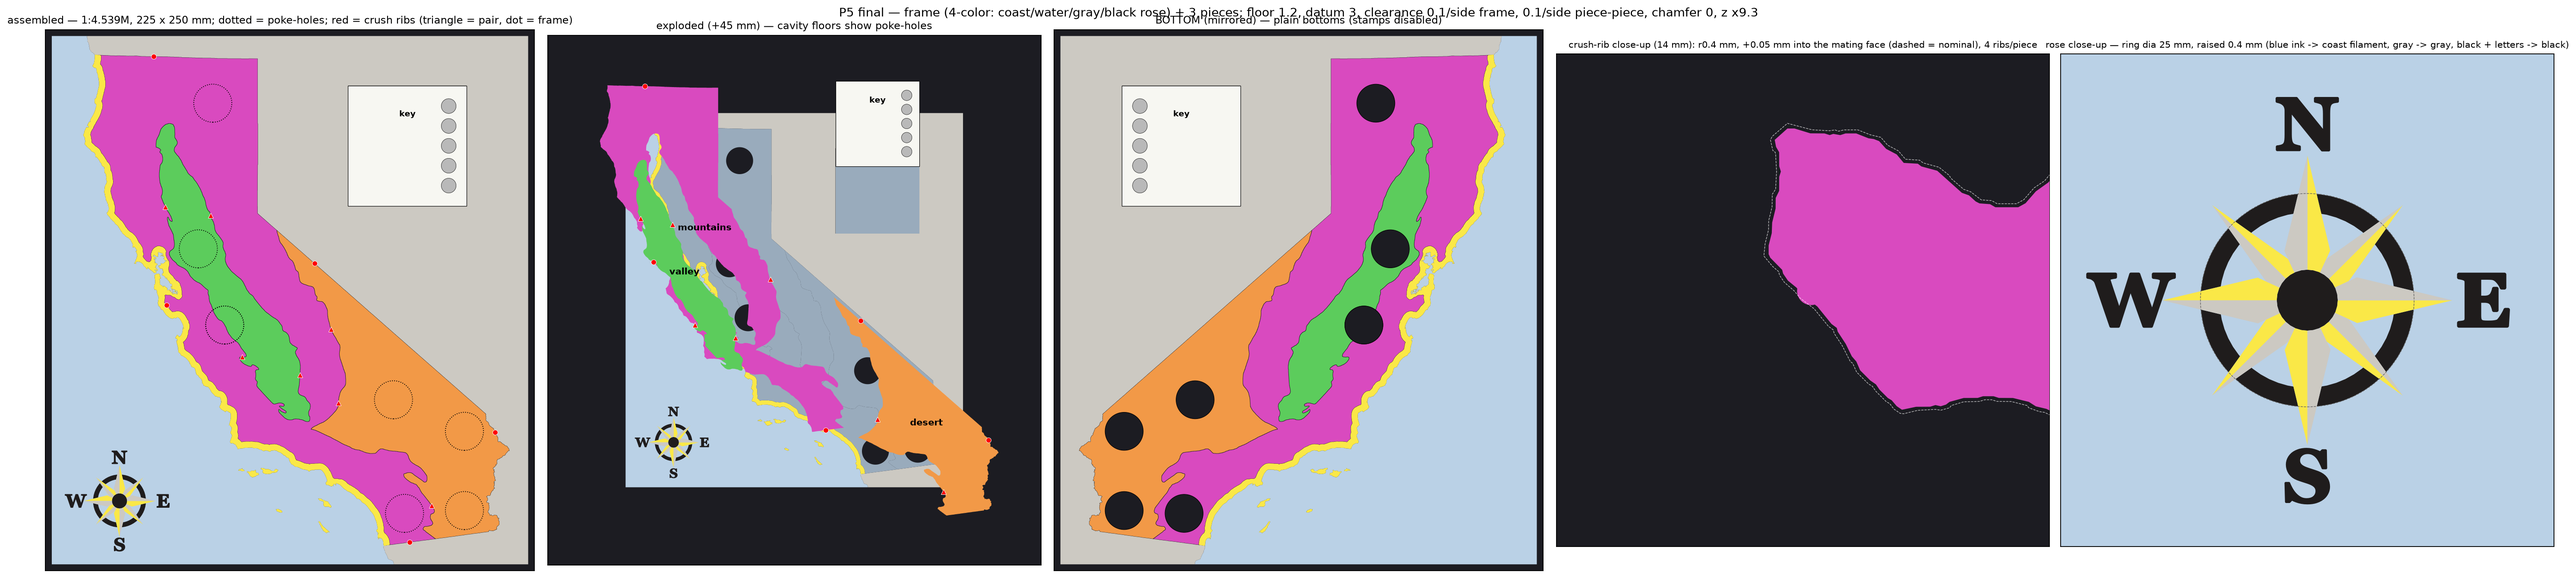
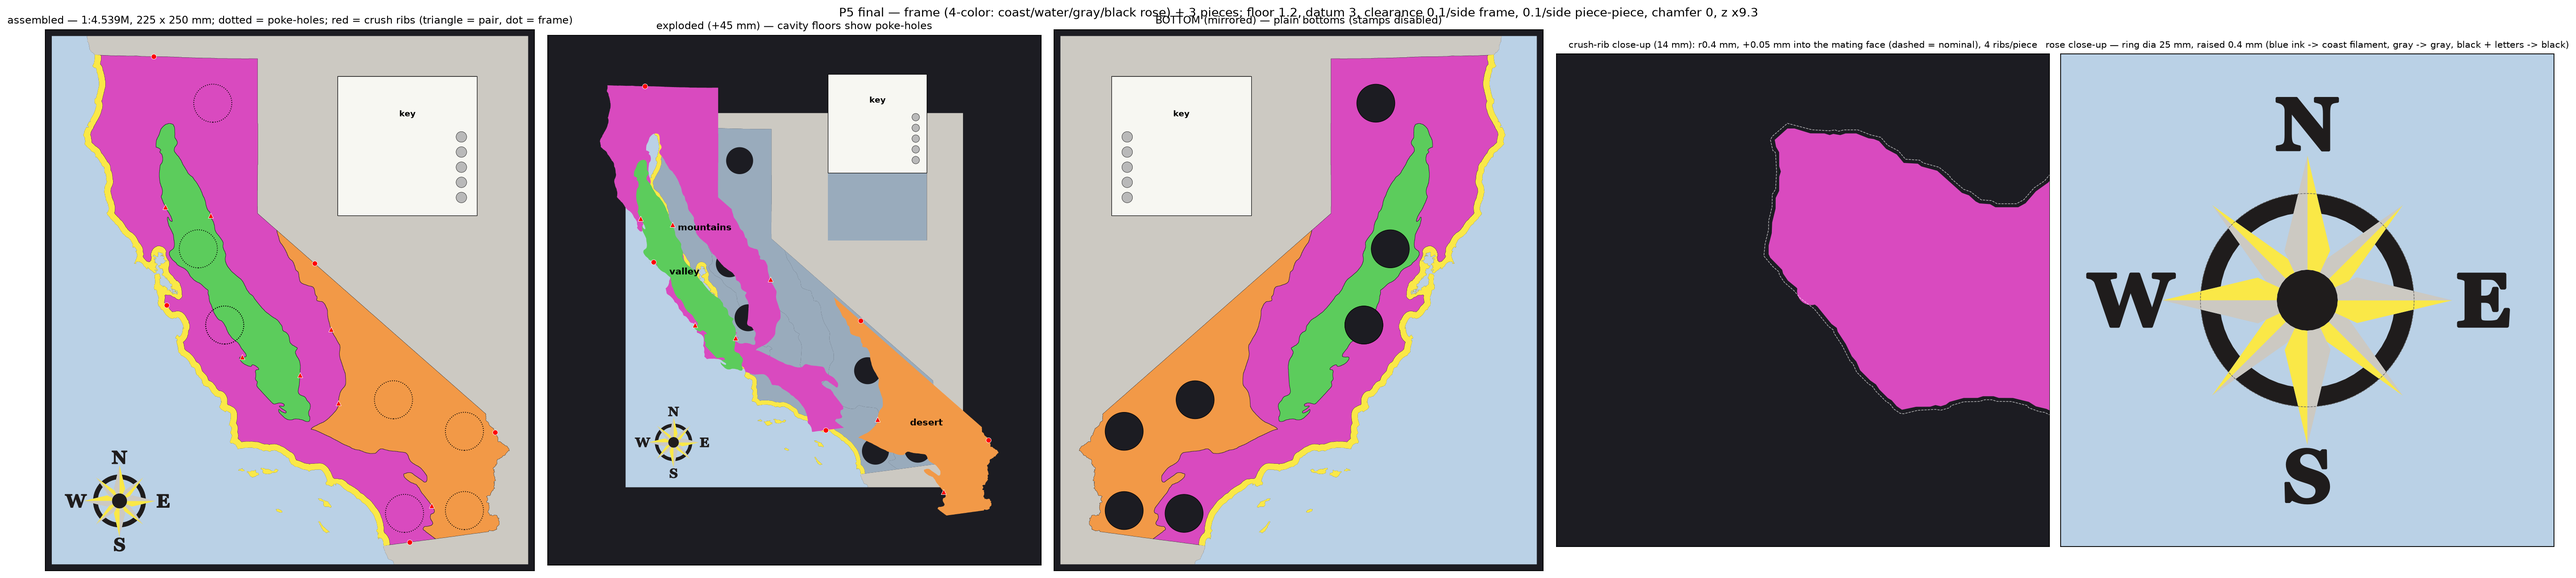
Key gets a title; 5 mm swatches, 3 mm labels, 66 x 66 mm
ahl's redesign: a title at the compass rose's letter size, a gap, then
the regions in a smaller font -- which moves and resizes the swatches.

- title "California Regions" at 6 mm cap ([compass].letter_cap_mm),
  word-wrapped to as many lines as the text column allows ("California"
  / "Regions" here). region labels drop to 3 mm cap, swatches to 5 mm.
- that sizes the key, not the other way round: "California" at 6 mm is
  44.6 mm, so the text column -- and hence the plate -- had to grow;
  56 mm left only 38 mm of column. Now 66 x 66 mm, still on clear
  Nevada land (checked: 2855+ valid placements exist even for the
  larger footprints). layout() asserts both fits, so a too-small key
  fails the build instead of crowding.
- title and labels share ONE recess with the pockets in a column beside
  it, so the printed insert stays a plain rectangle -- no holes to
  punch in paper.
- render_label now sizes text by CAP height rather than passing mm
  straight to matplotlib's points (Georgia's cap is ~0.7 em), so 6 mm
  and 3 mm mean what they say.

Brim set to 3 mm in the checklist per ahl, with the bed arithmetic and
the 2 mm/brimless fallbacks recorded -- 3 mm lands on exactly 256.0,
the bed edge, so the first layer is worth watching.

The pocket coupon follows config, so it regenerated at 5 mm
automatically (plug 5.05 x 1.8) -- regenerate before test-fitting, the
earlier 7 mm pair is superseded.

diff --git a/pipeline/key_panel.py b/pipeline/key_panel.py
@@ -72,51 +72,101 @@ MARGIN_MM = 5.0            # plate edge -> content
 ROW_GAP_MM = 3.0           # gap between pocket circles, row to row
 TEXT_GAP_MM = 3.0          # pocket -> label-recess gap
 TEXT_MARGIN_MM = 2.0       # extra clearance beyond the measured text box
+TITLE = "California Regions"
+TITLE_CAP_MM = 6.0         # ahl 2026-09-15: same size as the compass
+                           # rose's N/E/S/W letters ([compass].
+                           # letter_cap_mm). Wraps over as many lines as
+                           # the text column needs.
+TITLE_GAP_MM = 4.0         # space between the title block and the list
+TITLE_LINE_FRAC = 1.35     # title line height / cap
 
 
 # ---------------------------------------------------------------- layout
-def layout(plate_w=None, plate_h=None, pocket_d=None):
-    """Row geometry: plate size, pocket centers, and the label-recess
-    rectangle (with each row's text baseline position inside it, LOCAL
-    to the recess's own SW corner -- what render_label() draws).
+def _wrap(text, ff, cap_mm, max_w):
+    """Greedy word-wrap `text` so every line fits `max_w` at `cap_mm`."""
+    def w(t):
+        b = ca._letter_poly(t, ff, cap_mm, ca.CHORD_TOL_MM).bounds
+        return b[2] - b[0]
+    lines, cur = [], ""
+    for word in text.split():
+        trial = f"{cur} {word}".strip()
+        if cur and w(trial) > max_w:
+            lines.append(cur)
+            cur = word
+        else:
+            cur = trial
+    if cur:
+        lines.append(cur)
+    over = [ln for ln in lines if w(ln) > max_w]
+    assert not over, (f"key too narrow for the title at {cap_mm:g} mm cap: "
+                      f"{over[0]!r} needs {w(over[0]):.1f} mm, have "
+                      f"{max_w:.1f}")
+    return lines, [w(ln) for ln in lines]
 
-    With no arguments the plate is sized to fit the text (the standalone
-    coupon).  Pass plate_w/plate_h to lay the same five rows out inside
-    a GIVEN rectangle instead -- that is the P5 path, where the key's
-    footprint comes from config [key] and the rows have to fit it.  The
-    row pitch then divides the available height evenly, and the caller's
-    width sets how much room the label recess gets."""
+
+def layout(plate_w, plate_h, pocket_d=None, title=TITLE,
+           title_cap=TITLE_CAP_MM, title_gap=TITLE_GAP_MM,
+           label_cap=CAP_MM):
+    """Lay the key out inside a GIVEN plate rectangle (ahl 2026-09-15:
+    the key's footprint comes from config [key], the contents fit it).
+
+    Down the plate: a TITLE at `title_cap` -- ahl asked for the same size
+    as the compass rose's N/E/S/W letters -- word-wrapped over as many
+    lines as it needs, then `title_gap` of space, then the five region
+    rows at the smaller `label_cap`, each with a swatch pocket beside it.
+
+    Across the plate: a right-hand column of pockets, and everything
+    printed (title AND labels) inside ONE rectangular recess to its left,
+    so the paper insert is a plain rectangle with no holes to punch.
+    That makes the recess width, not the plate width, the constraint on
+    the title -- the assert in _wrap fires if the key is too narrow.
+
+    Returns (plate_w, plate_h, rows, recess).  `recess` carries the
+    title lines and their y positions, all LOCAL to the recess's own SW
+    corner, which is the frame render_label() draws in."""
     ff = ca._font_file(FONT)
-    widths = {}
-    for lab in LABELS:
-        g = ca._letter_poly(lab, ff, CAP_MM, ca.CHORD_TOL_MM)
-        widths[lab] = g.bounds[2] - g.bounds[0]
-    text_w = max(widths.values())
     pocket_d = POCKET_D_MM if pocket_d is None else pocket_d
 
-    if plate_h is None:
-        plate_h = 2 * MARGIN_MM + 5 * pocket_d + 4 * ROW_GAP_MM
-    if plate_w is None:
-        plate_w = (MARGIN_MM + pocket_d + TEXT_GAP_MM + text_w
-                   + TEXT_MARGIN_MM + MARGIN_MM)
-    # rows fill the usable height evenly, whatever it is
-    usable_h = plate_h - 2 * MARGIN_MM
-    row_pitch = usable_h / len(LABELS)
-    assert row_pitch >= pocket_d + 0.5, (
-        f"key too short: {len(LABELS)} rows of dia {pocket_d:g} mm need "
-        f"> {len(LABELS) * (pocket_d + 0.5) + 2 * MARGIN_MM:.1f} mm, "
-        f"have {plate_h:.1f}")
-
-    pocket_x = plate_w - MARGIN_MM - pocket_d / 2
     recess = {"x0": MARGIN_MM, "y0": MARGIN_MM,
              "x1": plate_w - MARGIN_MM - pocket_d - TEXT_GAP_MM,
              "y1": plate_h - MARGIN_MM}
-    assert recess["x1"] - recess["x0"] > 10.0, (
-        f"key too narrow: label recess only "
-        f"{recess['x1'] - recess['x0']:.1f} mm wide")
+    rec_w = recess["x1"] - recess["x0"]
+    rec_h = recess["y1"] - recess["y0"]
+    assert rec_w > 10.0, (f"key too narrow: text column only {rec_w:.1f} mm "
+                          f"(plate {plate_w:.1f} - margins - {pocket_d:g} mm "
+                          "pocket column)")
+
+    title_lines, _ = _wrap(title, ff, title_cap, rec_w)
+    line_h = title_cap * TITLE_LINE_FRAC
+    title_h = len(title_lines) * line_h
+
+    # rows share whatever height is left under the title block
+    rows_h = rec_h - title_h - title_gap
+    row_pitch = rows_h / len(LABELS)
+    assert row_pitch >= pocket_d + 0.5, (
+        f"key too short: after a {len(title_lines)}-line title "
+        f"({title_h:.1f} mm) + {title_gap:g} mm gap, {len(LABELS)} rows of "
+        f"dia {pocket_d:g} mm need {len(LABELS) * (pocket_d + 0.5):.1f} mm "
+        f"but only {rows_h:.1f} mm is left (plate {plate_h:.1f})")
+    lab_w = max(ca._letter_poly(l, ff, label_cap, ca.CHORD_TOL_MM).bounds[2]
+                - ca._letter_poly(l, ff, label_cap, ca.CHORD_TOL_MM).bounds[0]
+                for l in LABELS)
+    assert lab_w <= rec_w, (f"region labels need {lab_w:.1f} mm at "
+                            f"{label_cap:g} mm cap, text column is "
+                            f"{rec_w:.1f} mm")
+
+    # title sits at the top of the recess, first line highest
+    recess["title_lines"] = title_lines
+    recess["title_cap"] = title_cap
+    recess["label_cap"] = label_cap
+    recess["title_y_local"] = [rec_h - (i + 0.5) * line_h
+                               for i in range(len(title_lines))]
+
+    pocket_x = plate_w - MARGIN_MM - pocket_d / 2
+    rows_top = recess["y0"] + rows_h
     rows = []
     for i, lab in enumerate(LABELS):
-        cy = plate_h - MARGIN_MM - row_pitch / 2 - i * row_pitch
+        cy = rows_top - (i + 0.5) * row_pitch
         rows.append({"label": lab, "pocket_c": (pocket_x, cy),
                      "text_y_local": cy - recess["y0"]})
     return plate_w, plate_h, rows, recess
@@ -234,8 +284,13 @@ def insert_mesh(diameter, height, seg=48):
 
 # ------------------------------------------------------------- 2D label
 def render_label(recess, rows):
-    """Print-at-100% PDF sized exactly to the label recess, text rows
-    aligned to the same y-coordinates as the pockets."""
+    """The printed KEY INSERT: a PDF sized exactly to the label recess,
+    carrying the title and the region names at the row positions
+    layout() computed.  Print at 100% and drop it into the recess.
+
+    2D-printed rather than moulded in plastic because FDM text at this
+    size fights a 0.4 mm nozzle -- at 3.5 mm cap Georgia Bold crowded
+    even after narrowing the glyphs (ahl 2026-09-15)."""
     import matplotlib
     matplotlib.use("Agg")
     import matplotlib.pyplot as plt
@@ -248,11 +303,20 @@ def render_label(recess, rows):
     ax.set_ylim(0, h)
     ax.set_aspect("equal")
     ax.axis("off")
+    # matplotlib sizes text in POINTS by font size, not cap height;
+    # Georgia's cap is ~0.7 em, so pt = cap_mm / 0.7 / 25.4 * 72
+    pt = lambda cap_mm: cap_mm / 0.7 * 72.0 / 25.4
+    for ln, y in zip(recess["title_lines"], recess["title_y_local"]):
+        ax.text(0.0, y, ln, fontfamily="Georgia", fontweight="bold",
+                fontsize=pt(recess["title_cap"]), va="center", ha="left")
     for r in rows:
-        ax.text(1.0, r["text_y_local"], r["label"], fontfamily="Georgia",
-                fontweight="bold", fontsize=CAP_MM * 3.4, va="center",
-                ha="left")
+        ax.text(0.0, r["text_y_local"], r["label"], fontfamily="Georgia",
+                fontweight="bold", fontsize=pt(recess["label_cap"]),
+                va="center", ha="left")
     path = OUT_DIR / "key_insert.pdf"
     fig.savefig(path, facecolor="white")
     plt.close(fig)
-    print(f"-> {path} ({w:.1f} x {h:.1f} mm, print at 100%/actual size)")
+    print(f"-> {path} ({w:.1f} x {h:.1f} mm, print at 100%/actual size; "
+          f"title {'/'.join(recess['title_lines'])} at "
+          f"{recess['title_cap']:g} mm cap, labels at "
+          f"{recess['label_cap']:g} mm)")

diff --git a/pipeline/p5_final.py b/pipeline/p5_final.py
@@ -573,9 +573,13 @@ def main():
         pw = (kx1 - kx0) + inter
         ph = (ky1 - ky0) + inter
         pl_w, pl_h, key_rows, lrec = key_panel.layout(
-            plate_w=pw, plate_h=ph, pocket_d=KEY.get("pocket_d_mm", 7.0))
+            pw, ph, pocket_d=KEY.get("pocket_d_mm", 5.0),
+            title=KEY.get("title", key_panel.TITLE),
+            title_cap=KEY.get("title_cap_mm", key_panel.TITLE_CAP_MM),
+            title_gap=KEY.get("title_gap_mm", key_panel.TITLE_GAP_MM),
+            label_cap=KEY.get("label_cap_mm", key_panel.CAP_MM))
         recesses = [{"points": key_panel.circle_ring(
-                        *r["pocket_c"], KEY.get("pocket_d_mm", 7.0) / 2),
+                        *r["pocket_c"], KEY.get("pocket_d_mm", 5.0) / 2),
                      "depth": KEY.get("pocket_depth_mm", 1.4)}
                     for r in key_rows]
         recesses.append({"points": key_panel.rect_ring(
@@ -601,7 +605,7 @@ def main():
               f"+{inter:g} mm total ({inter / 2:g}/side) -- no ribs, no "
               f"poke-hole, glue optional\n"
               f"    {len(key_rows)} swatch pockets dia "
-              f"{KEY.get('pocket_d_mm', 7.0):g} x "
+              f"{KEY.get('pocket_d_mm', 5.0):g} x "
               f"{KEY.get('pocket_depth_mm', 1.4):g} deep; label recess "
               f"{lrec['x1'] - lrec['x0']:.1f} x {lrec['y1'] - lrec['y0']:.1f}"
               f" x {KEY.get('label_recess_mm', 0.2):g} deep -> {kpath}")
@@ -718,7 +722,7 @@ def render_preview(geo, s, holes, stamps, ribbed, rib_pt, rose, rose_c,
                 if pieces_exploded:
                     py += 45.0
                 ax.add_patch(plt.Circle(
-                    (px, py), KEY.get("pocket_d_mm", 7.0) / 2,
+                    (px, py), KEY.get("pocket_d_mm", 5.0) / 2,
                     facecolor="#b9b9b9", edgecolor="black", lw=0.3, zorder=4))
             kc = k.centroid
             ax.annotate("key", (kc.x, kc.y + 14), color="black", fontsize=8,

diff --git a/NOTES.md b/NOTES.md
@@ -97,7 +97,7 @@ set into a frame of the surrounding geography.
 | D6 | Print bed 256×256 mm; whole model ≤ 1000×1000 mm total | Either frame fits one bed, or frame is carved into tiles |
 | D7 | Material: PLA. Fit: snug but disassemblable | Clearance values TBD (see G3) |
 | D8 | Version control: jj (colocated git), repo = this directory | |
-| D19 | **Region KEY (ahl 2026-09-15):** a rectangular plate inset into the P5 frame over NEVADA, listing the five regions (Pacific Ocean, Coastal, Mountain, Valley, Desert) each with a circular colour-swatch plug beside it. Cut as a recess exactly like a piece cavity. **PERMANENT press fit** — no crush ribs, no poke-hole, `[key].interference_mm` (0.05 total) of squeeze, glue optional. Bottom sits on the tray floor at the same z as every piece; **top is flush with the tallest terrain ON ITS BOUNDARY** — the build walks the rectangle's perimeter every run and takes the max, so the plate finishes level with the ground it actually abuts and moving/resizing the key re-heights it automatically (there is no height knob; verified by moving the key and watching 6.24 -> 6.69 mm). "Adjacent" means on the boundary line, NOT merely nearby: an earlier band-sampling version picked up a peak standing off from the key and made it 1.2 mm too tall. Labels are 2D-PRINTED (`out/p5/key_insert.pdf`, sized to a 0.2 mm recess) — FDM text at this size fights the 0.4 mm nozzle. Config `[key]`: enabled, center_mm, width_mm, height_mm, adjacent_search_mm, interference_mm, pocket_*, label_recess_mm. Location picked by scanning for the largest clear gray non-CA land block. Plug dimensions deliberately NOT yet fixed — decide from `pipeline/key_pocket_coupon.py` (-> `out/key_coupon/{pocket_coupon,plug}.stl`), which reads the pocket size from this same config so the coupon always matches the real key. The standalone key-panel build was REMOVED 2026-09-15 (ahl: "get rid of the stand-alone key stuff"); `key_panel.py` is now a pure library shared by p5_final and the coupon. | |
+| D19 | **Region KEY (ahl 2026-09-15):** a rectangular plate inset into the P5 frame over NEVADA, carrying a TITLE ("California Regions", 6 mm cap = the same size as the compass rose's N/E/S/W letters, word-wrapped to "California"/"Regions") then, after a gap, the five regions (Pacific Ocean, Coastal, Mountain, Valley, Desert) at a smaller 3 mm cap, each with a 5 mm circular colour-swatch plug beside it. Title layout sets the size: the text column must fit "California" at 6 mm (44.6 mm), which drove the key to 66 x 66 mm (was 56 x 57 before the title). Title and labels share ONE rectangular recess with the pockets in a column to its right, so the paper insert is a plain rectangle with no holes to punch. Cut as a recess exactly like a piece cavity. **PERMANENT press fit** — no crush ribs, no poke-hole, `[key].interference_mm` (0.05 total) of squeeze, glue optional. Bottom sits on the tray floor at the same z as every piece; **top is flush with the tallest terrain ON ITS BOUNDARY** — the build walks the rectangle's perimeter every run and takes the max, so the plate finishes level with the ground it actually abuts and moving/resizing the key re-heights it automatically (there is no height knob; verified by moving the key and watching 6.24 -> 6.69 mm). "Adjacent" means on the boundary line, NOT merely nearby: an earlier band-sampling version picked up a peak standing off from the key and made it 1.2 mm too tall. Labels are 2D-PRINTED (`out/p5/key_insert.pdf`, sized to a 0.2 mm recess) — FDM text at this size fights the 0.4 mm nozzle. Config `[key]`: enabled, center_mm, width_mm, height_mm, adjacent_search_mm, interference_mm, pocket_*, label_recess_mm. Location picked by scanning for the largest clear gray non-CA land block. Plug dimensions deliberately NOT yet fixed — decide from `pipeline/key_pocket_coupon.py` (-> `out/key_coupon/{pocket_coupon,plug}.stl`), which reads the pocket size from this same config so the coupon always matches the real key. The standalone key-panel build was REMOVED 2026-09-15 (ahl: "get rid of the stand-alone key stuff"); `key_panel.py` is now a pure library shared by p5_final and the coupon. | |
 | D18 | **Retention & disassembly (ahl 2026-09-14, from T1):** pieces stay seated through handling (T1: mountains fell out when tipped); the FINGER POKE-HOLES (18 mm, may span piece-piece seams) are THE disassembly mechanism. Retention via crush ribs on piece walls (rib_* knobs; ~0.05 mm interference, tune from T2 print). Clearances split by interface: 0.15 total everywhere (frame 0.15 single-side kept from T1's good fit; piece-pair 0.075/side, was 0.30 total = loose valley). | |
 | D17 | **Compass rose (ahl 2026-09-14):** 8-point nautical rose (4 cardinal + 4 intercardinal, split-shaded points, center circle, outer ring, N/E/S/W serif letters) in the bottom-left Pacific of the Frame. Concept: "compass rose.jpeg". Design source: assets/compass_rose.svg (parametric generator pipeline/compass_rose.py — edit SVG directly or params). **Makes the Frame a 4-COLOR print** (adds black for rose outlines + lettering). Physical size + emboss method decided at placement. | |
 | D16 | **The Frame is a TRAY (ahl 2026-09-13):** a continuous floor (FLOOR_MM = 1.2, 6 layers) runs under the whole footprint; cavities are recesses, not through-holes — pieces rest ON the Frame. Poke-holes (2x 8 mm circles in the floor per piece, at interior points) allow pushing pieces out from below. Pieces carry BASE_MM - FLOOR_MM of slab so all datums/tops align. Water/base height: 3.0 mm proposed for final rigidity (ahl deciding 2.0-3.0); G2 relief rides on top (total max ~11.5 mm at 3.0). | |
@@ -425,16 +425,16 @@ PIECES (mountains/valley/desert STLs — single color)
 - [ ] Orientation as imported (terrain up)
 
 FINAL 225 x 250 FRAME ONLY
-- [ ] **BRIM WIDTH — the "~4 mm" in this checklist DOES NOT FIT** (found
-      2026-09-15, before the print, by measuring rather than assuming).
-      The frame is 225.1 x 250.0 mm and brim grows OUTWARD on every side,
-      so on a 256 x 256 bed: 2 mm -> 254.0 fits; **3 mm -> 256.0, exactly
-      the bed edge, zero margin**; 4 mm -> 258.0, **overflows by 2 mm**.
-      The N-S 250 mm is the binding dimension (rotating does not help,
-      it just swaps axes). Decide before printing: drop to 2 mm, go
-      brimless (the tray floor gives full-footprint bed contact, so
-      adhesion may not need one), or shrink [output].total_ns_mm. Note
-      the printable area may also be slightly under the nominal 256.
+- [ ] Brim **3 mm** (ahl 2026-09-15). NOT the 4 mm this checklist used
+      to say: brim grows OUTWARD on every side, so on a 256 x 256 bed the
+      225.1 x 250.0 frame becomes 233.1 x **258.0** at 4 mm and overflows
+      by 2 mm. At 3 mm it is 231.1 x **256.0** -- exactly the bed edge.
+      N-S is the binding dimension; rotating only swaps axes. Watch the
+      first layer: if the printable area is even slightly under the
+      nominal 256, or the plate is not perfectly centred, the brim will
+      clip. Fallback is 2 mm (254.0, 1 mm of margin) or brimless -- the
+      tray floor gives full-footprint bed contact, so adhesion may not
+      need a brim at all.
 
 ## Filament logistics (ahl 2026-09-14)
 
